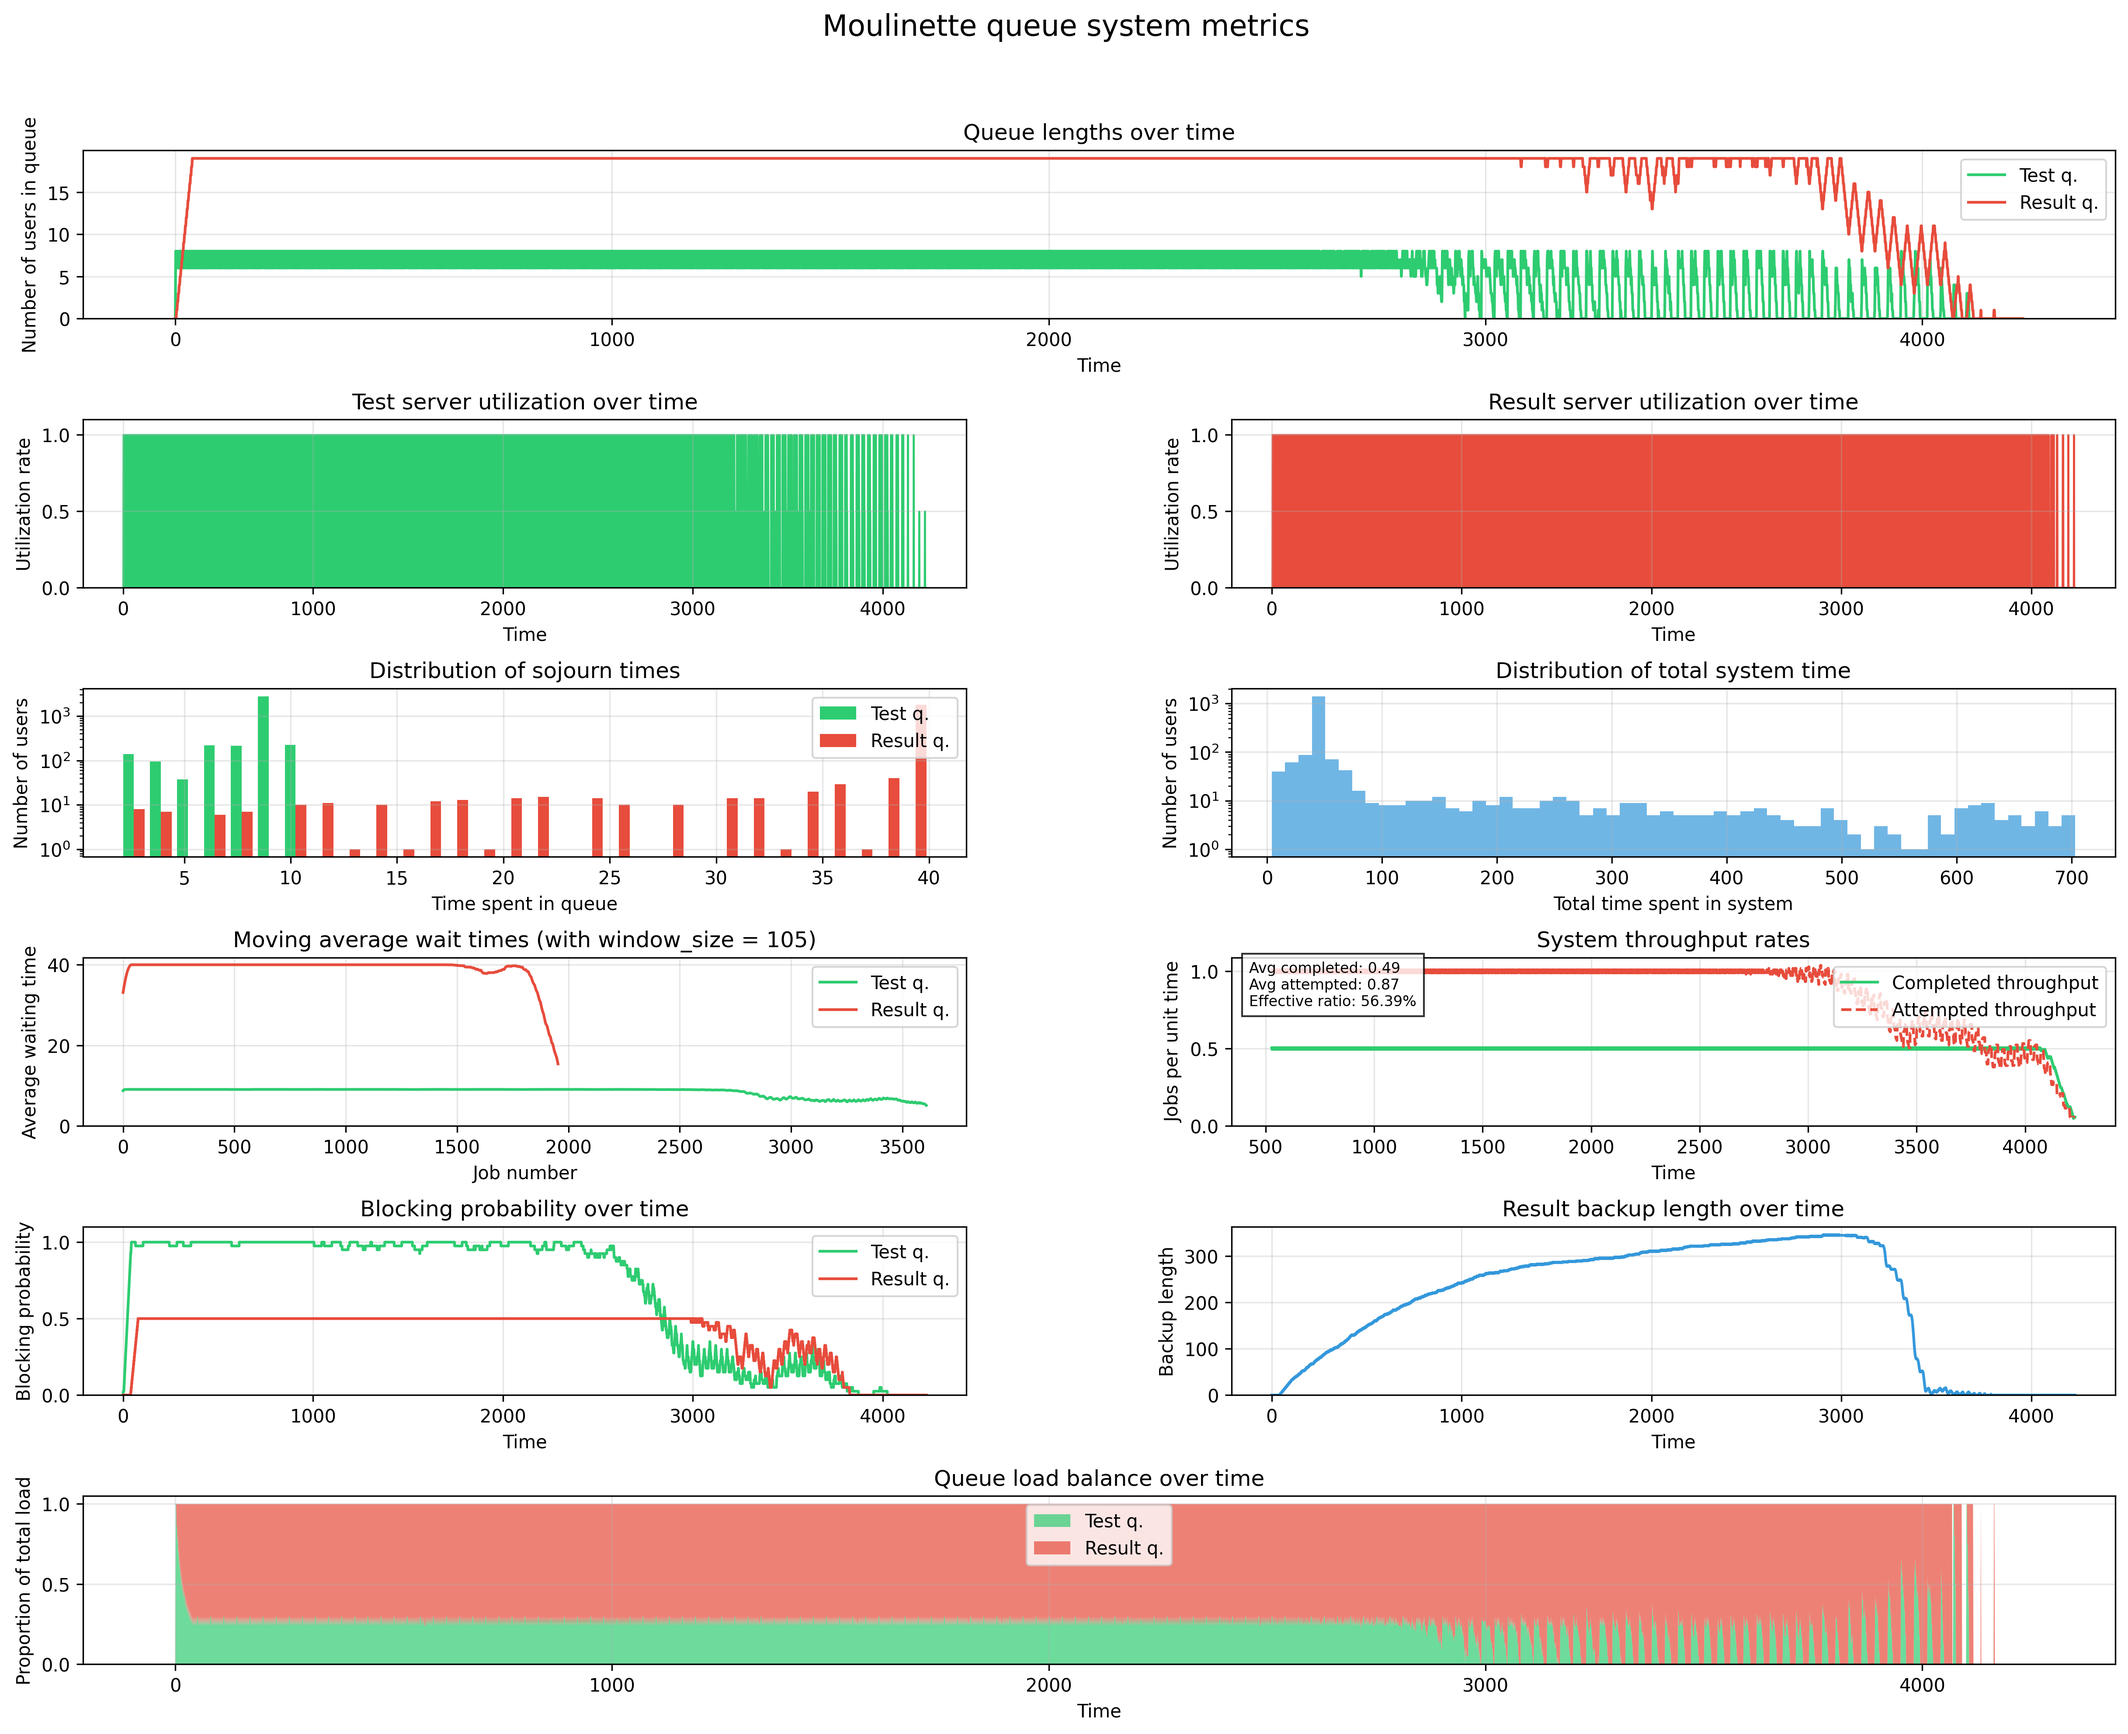
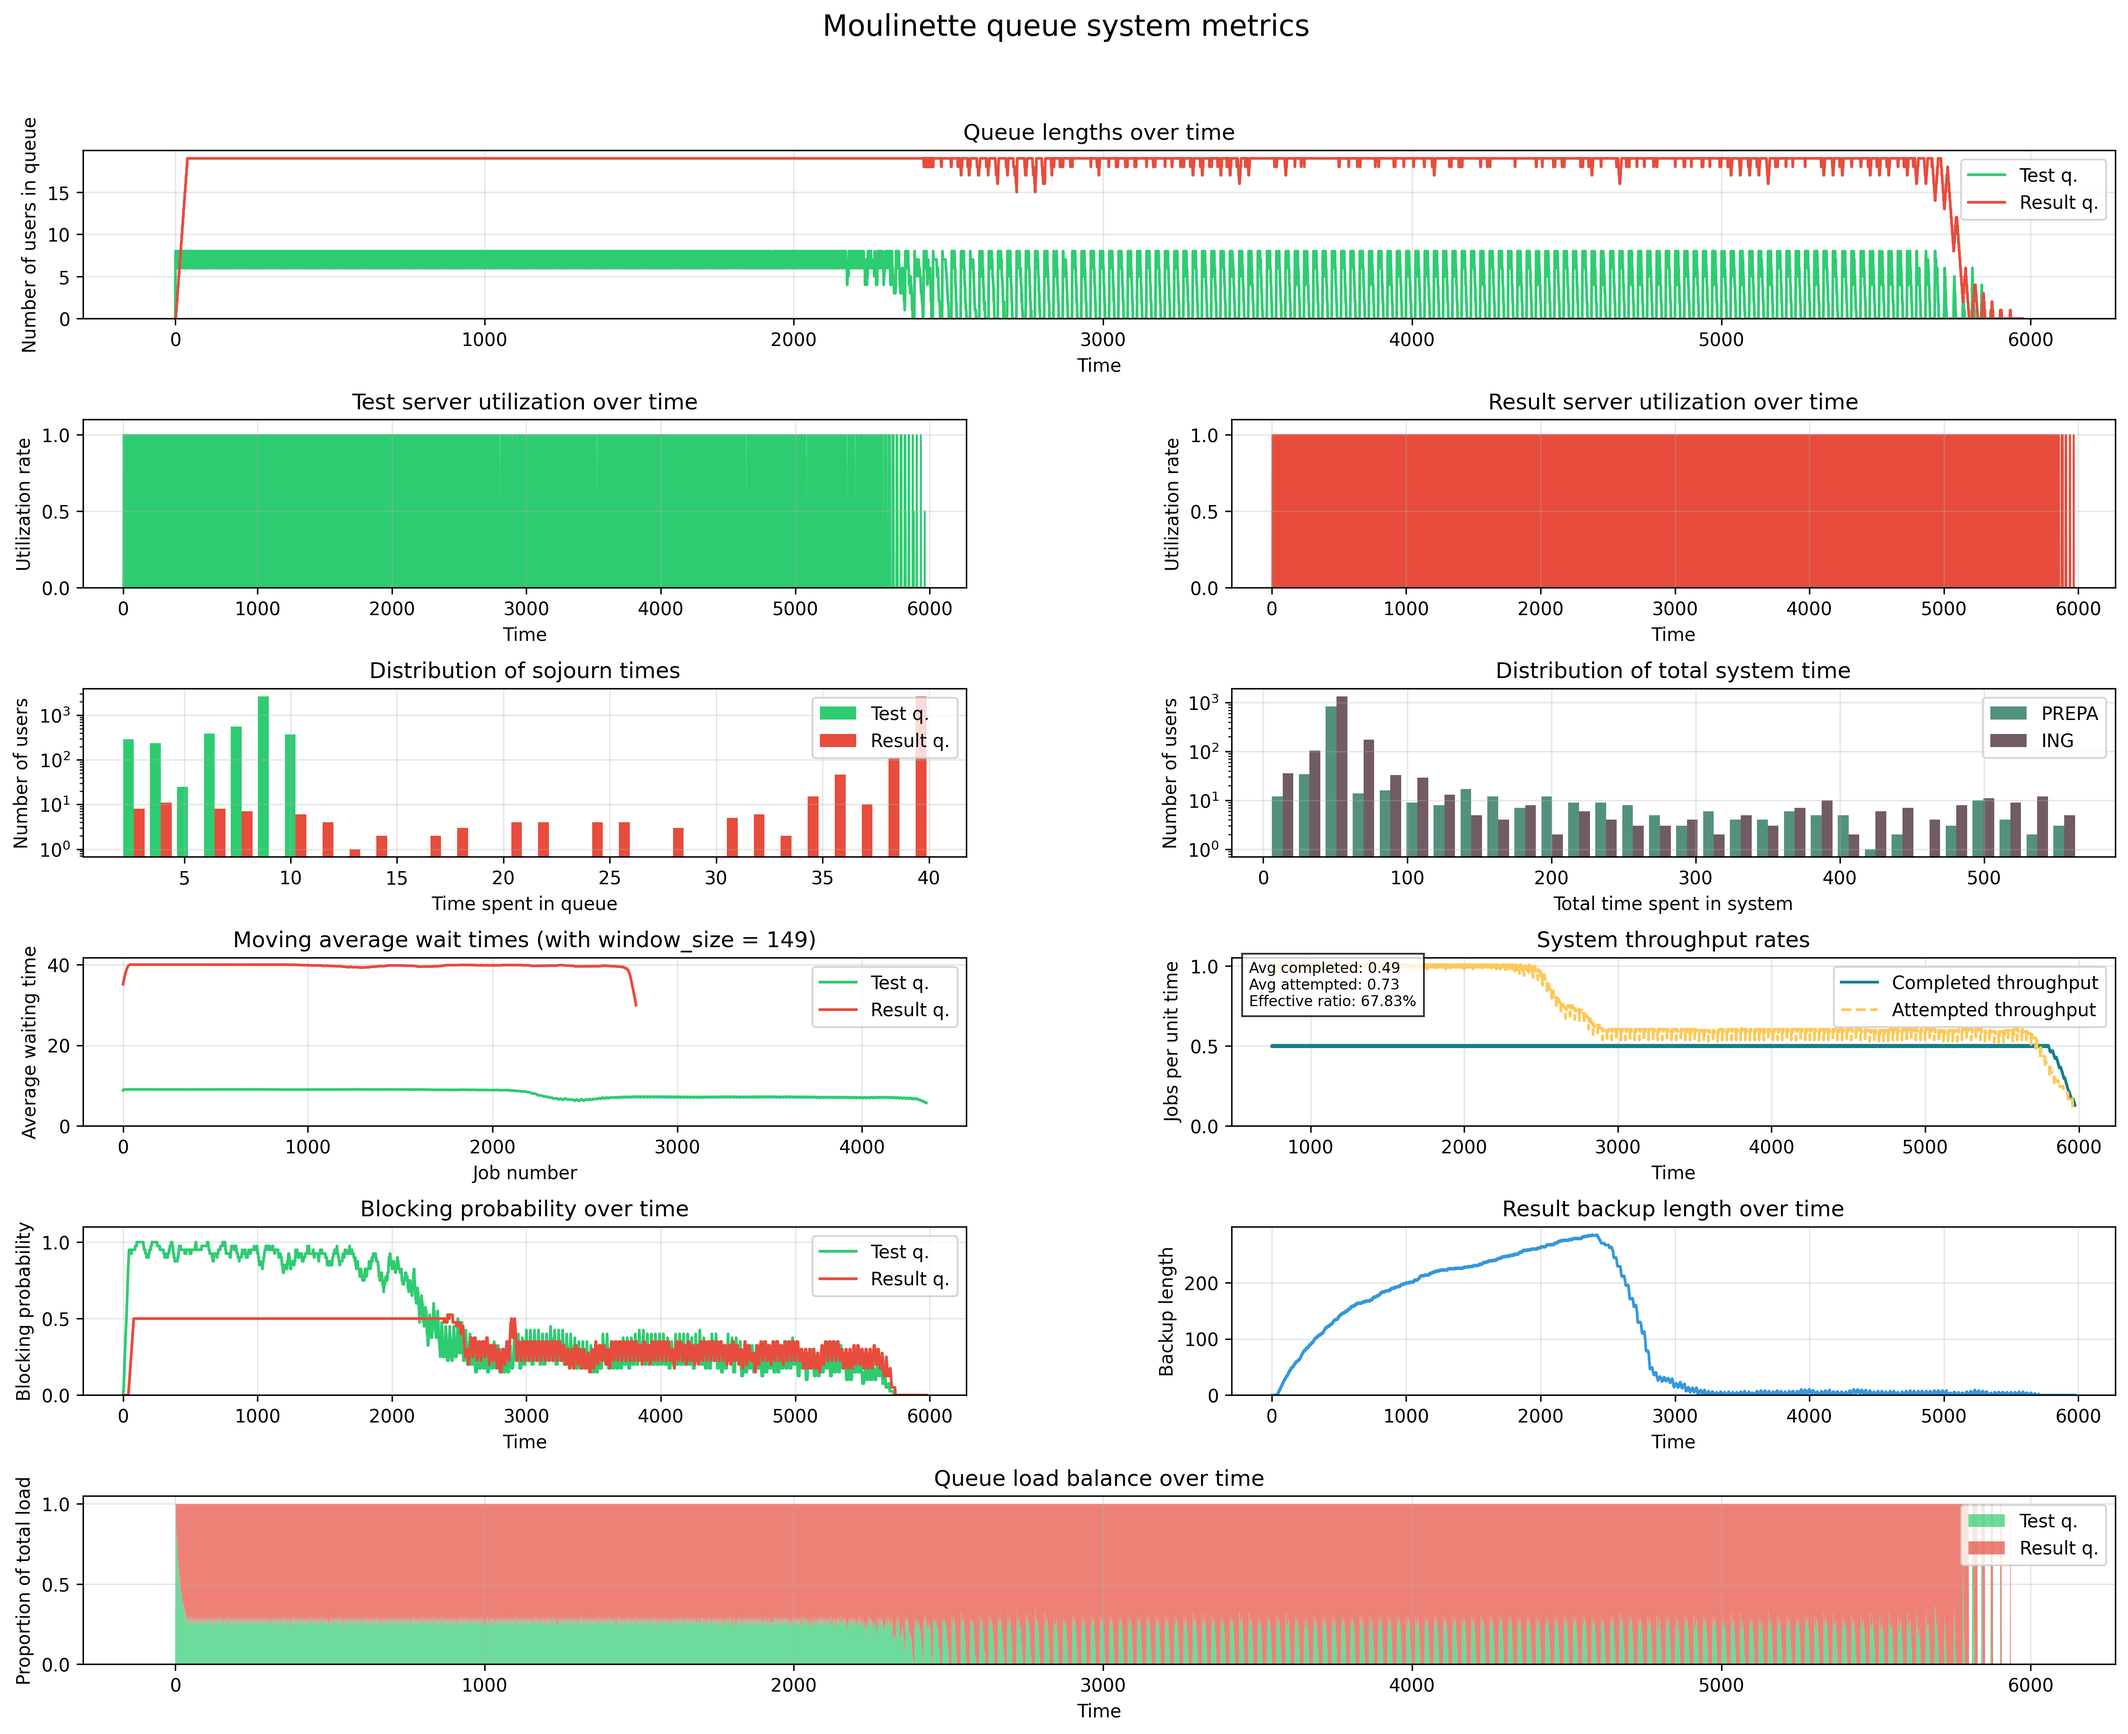
[main] add new graph visualization (ING / PREPA)

diff --git a/queue_metrics.py b/queue_metrics.py
@@ -276,6 +276,8 @@ class QueueMetrics:
         test_sojourn_times = []
         result_sojourn_times = []
         total_sojourn_times = []
+        total_prepa_sojourn_times = []
+        total_ing_sojourn_times = []
 
         for user_id in tqdm(self.test_queue_entry_times, desc="Computing sojourn times distribution"):
             if user_id in self.test_queue_exit_times:
@@ -300,7 +302,13 @@ class QueueMetrics:
                     self.result_queue_exit_times[user_id]
                     - self.test_queue_entry_times[user_id]
                 )
-                total_sojourn_times.append(total_time)
+
+                if 'PREPA' in user_id[:5]:
+                    total_prepa_sojourn_times.append(total_time)
+                elif 'ING' in user_id[:3]:
+                    total_ing_sojourn_times.append(total_time)
+                else:
+                    total_sojourn_times.append(total_time)
 
         # 4
         ax4.hist(
@@ -318,7 +326,17 @@ class QueueMetrics:
 
         # 5
         ax5 = fig.add_subplot(gs[2, 1])
-        ax5.hist(total_sojourn_times, color="#3498db", alpha=0.7, bins=60)
+        if len(total_sojourn_times) != 0:
+            ax5.hist(total_sojourn_times, color="#3498db", alpha=0.7, bins=60)
+        else:
+            ax5.hist(
+                [total_prepa_sojourn_times, total_ing_sojourn_times],
+                label=["PREPA", "ING"],
+                color=["#53917E", "#715B64"],
+                bins=30
+            )
+            ax5.legend(loc="upper right")
+
         ax5.set_title("Distribution of total system time")
         ax5.set_xlabel("Total time spent in system")
         ax5.set_ylabel("Number of users")
@@ -405,13 +423,13 @@ class QueueMetrics:
                     timestamps_after_warmup[window_size:],
                     completed_rates,
                     label="Completed throughput",
-                    color="#2ecc71"
+                    color="#177E89"
                 )
                 ax7.plot(
                     timestamps_after_warmup[window_size:],
                     attempted_rates,
                     label="Attempted throughput",
-                    color="#e74c3c",
+                    color="#FFC857",
                     linestyle="--"
                 )
 
@@ -501,7 +519,7 @@ class QueueMetrics:
         ax10.set_xlabel("Time")
         ax10.set_ylabel("Proportion of total load")
         ax10.grid(True, alpha=0.3)
-        ax10.legend()
+        ax10.legend(loc="upper right")
 
         fig.suptitle("Moulinette queue system metrics", fontsize=16, y=0.95)
         plt.savefig(save_filename, dpi=300, bbox_inches="tight")

diff --git a/channels_dams/channelsdams.py b/channels_dams/channelsdams.py
@@ -75,13 +75,13 @@ class ChannelsAndDams(WaterfallMoulinetteFiniteBackup):
                     or self.users_commit_time[user][0] <= self.env.now - 60
                 ):
                     commit = Commit(user, self.env.now, exo, last_chance_commit)
-                    user_id = f"{user.name}_{self.env.now}_{exo}"
+
                     if self.block_option and user.promo == "ING" and self.is_blocked:
                         print(f"{commit} : blocked by ING regulation.")
                         yield self.env.timeout(random.randint(1, 3))
                     else:
                         exo = self.users_exo[user]
-                        user_id = f"{user.name}_{self.env.now}_{exo}"
+                        user_id = f"{user.promo}_{user.name}_{self.env.now}_{exo}"
 
                         # si plus de place dans la FIFO de test, refus
                         if len(self.test_queue.items) >= self.ks:

diff --git a/main.py b/main.py
@@ -69,7 +69,7 @@ def launch_test(
 
 
 if __name__ == "__main__":
-    user_list = create_user_list(generate_users_names(100), promo_ratio=0.2)
+    user_list = create_user_list(generate_users_names(100), promo_ratio=0.5)
 
     # print("\n\n=== Waterfall Moulinette (Infinite Queues) ===\n")
     # wm_inf = WaterfallMoulinetteInfinite(K=2, process_time=2, result_time=2)
